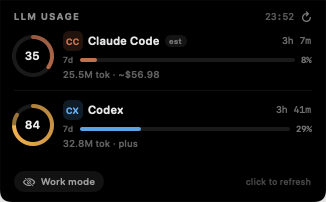
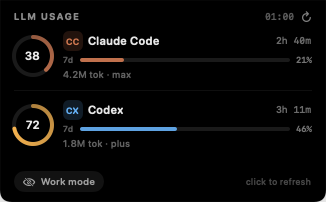
Ship stand-in data for the documentation screenshots
The rendered screenshots previously carried real session totals and spend.
`--render --demo` builds a fixed sample snapshot instead, so the README
images are stable and nobody publishes their own usage by accident.

diff --git a/Sources/UsageNotch/Model/UsageStore.swift b/Sources/UsageNotch/Model/UsageStore.swift
@@ -1,5 +1,6 @@
 import Foundation
 import Combine
+import SwiftUI
 
 /// Set USAGENOTCH_DEBUG=1 to trace the refresh pipeline on stderr.
 func usageDebug(_ message: @autoclosure () -> String) {
@@ -49,6 +50,30 @@ final class UsageStore: ObservableObject {
         var providers: [ProviderUsage] = []
         for provider in active() { providers.append(provider.fetch(now: now)) }
         snapshot = UsageSnapshot(providers: providers, updatedAt: now)
+    }
+
+    /// Plausible stand-in readings for the README screenshots.
+    func loadDemoData() {
+        let now = Date()
+        var claude = ProviderUsage(
+            id: "claude-code", name: "Claude Code", glyph: "CC",
+            tint: Color(red: 0.85, green: 0.53, blue: 0.35),
+            session: UsageWindow(fraction: 0.38, resetsAt: now.addingTimeInterval(2 * 3600 + 41 * 60),
+                                 label: "5h", estimated: false),
+            week: UsageWindow(fraction: 0.21, resetsAt: nil, label: "7d", estimated: false),
+            tokens: 4_200_000, costUSD: nil, plan: "max", lastActivity: now, status: .ok
+        )
+        claude.footnote = nil
+        var codex = ProviderUsage(
+            id: "codex", name: "Codex", glyph: "CX",
+            tint: Color(red: 0.44, green: 0.72, blue: 0.98),
+            session: UsageWindow(fraction: 0.72, resetsAt: now.addingTimeInterval(3 * 3600 + 12 * 60),
+                                 label: "5h", estimated: false),
+            week: UsageWindow(fraction: 0.46, resetsAt: nil, label: "7d", estimated: false),
+            tokens: 1_800_000, costUSD: nil, plan: "plus", lastActivity: now, status: .ok
+        )
+        codex.footnote = nil
+        snapshot = UsageSnapshot(providers: [claude, codex], updatedAt: now)
     }
 
     func refresh() {

diff --git a/Sources/UsageNotch/UI/RenderHarness.swift b/Sources/UsageNotch/UI/RenderHarness.swift
@@ -12,9 +12,15 @@ enum RenderHarness {
 
         let store = UsageStore()
         let state = NotchState()
-        // No NSApplication run loop here, so fetch inline rather than waiting on
-        // a main-queue hop that would never be delivered.
-        store.refreshBlocking()
+        if CommandLine.arguments.contains("--demo") {
+            // Documentation screenshots ship with stand-in numbers so nobody has to
+            // publish their own spend.
+            store.loadDemoData()
+        } else {
+            // No NSApplication run loop here, so fetch inline rather than waiting on
+            // a main-queue hop that would never be delivered.
+            store.refreshBlocking()
+        }
 
         let providers = max(store.snapshot.visible.count, 1)
         let edge = Settings.shared.edge
